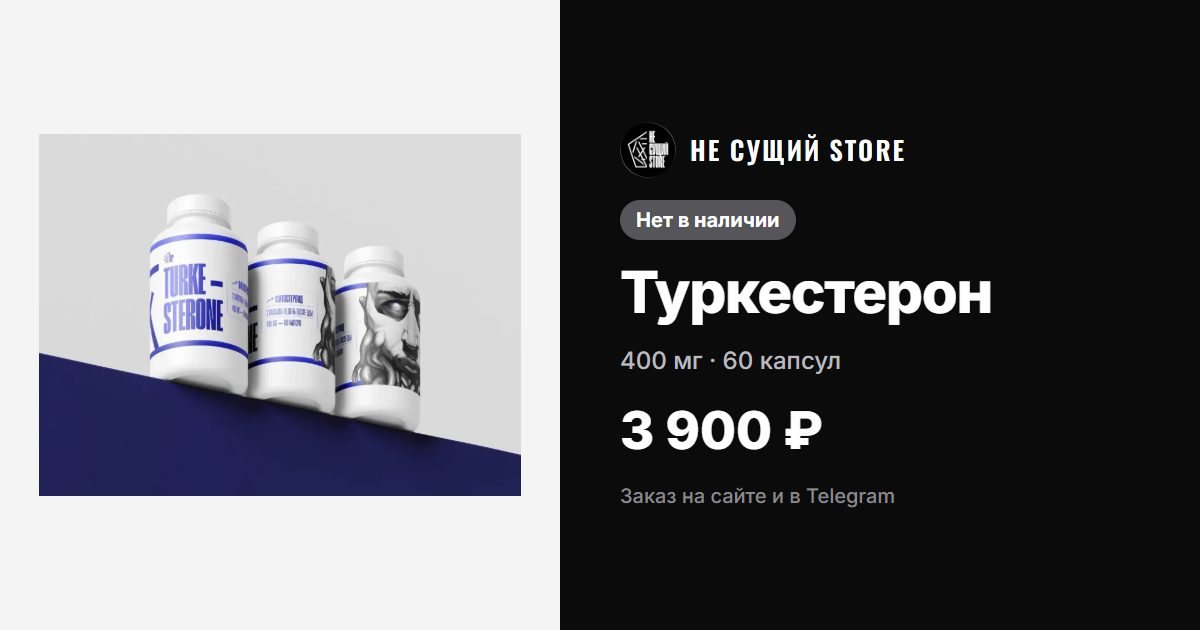
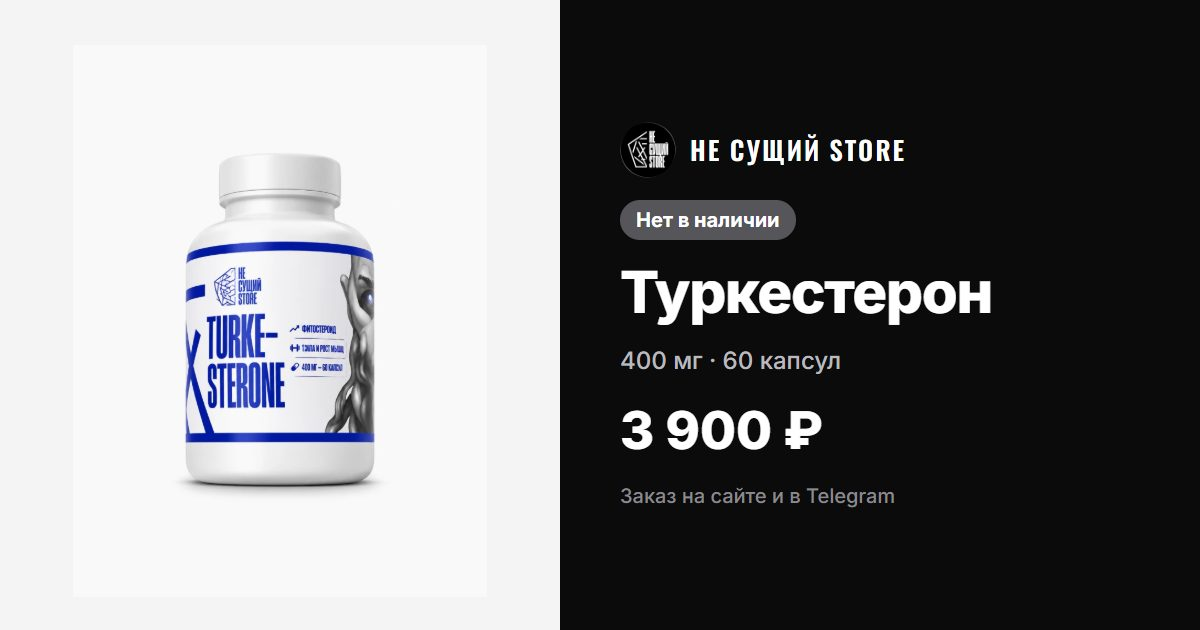
Сайт: f1fa7a7 Новые фото: Сульбутиамин, Ноопепт, Туркестерон

Changed region(s): [[0.0308, 0.2111, 0.4317, 0.8143]]

diff --git a/index.html b/index.html
@@ -34,14 +34,14 @@
   <!-- шрифты не блокируют первую отрисовку -->
   <link rel="preload" as="style" href="https://fonts.googleapis.com/css2?family=Inter:wght@400;500;600;700;800&family=Oswald:wght@500;600&display=swap" onload="this.onload=null;this.rel='stylesheet'">
   <noscript><link rel="stylesheet" href="https://fonts.googleapis.com/css2?family=Inter:wght@400;500;600;700;800&family=Oswald:wght@500;600&display=swap"></noscript>
-  <link rel="stylesheet" href="styles.css?v=7d974f5">
-  <link rel="stylesheet" href="mega.css?v=7d974f5">
-  <link rel="stylesheet" href="home.css?v=7d974f5">
-  <link rel="stylesheet" href="reviews.css?v=7d974f5">
-  <link rel="stylesheet" href="account.css?v=7d974f5">
-  <link rel="stylesheet" href="mobile.css?v=7d974f5">
-  <link rel="stylesheet" href="chat.css?v=7d974f5">
-  <link rel="stylesheet" href="theme.css?v=7d974f5">
+  <link rel="stylesheet" href="styles.css?v=f1fa7a7">
+  <link rel="stylesheet" href="mega.css?v=f1fa7a7">
+  <link rel="stylesheet" href="home.css?v=f1fa7a7">
+  <link rel="stylesheet" href="reviews.css?v=f1fa7a7">
+  <link rel="stylesheet" href="account.css?v=f1fa7a7">
+  <link rel="stylesheet" href="mobile.css?v=f1fa7a7">
+  <link rel="stylesheet" href="chat.css?v=f1fa7a7">
+  <link rel="stylesheet" href="theme.css?v=f1fa7a7">
 </head>
 <body>
   <!-- Иконки -->
@@ -435,14 +435,14 @@
 
   <div class="toast" id="toast" role="status"></div>
 
-  <script defer src="config.js?v=7d974f5"></script>
-  <script defer src="vendor/supabase.js?v=7d974f5"></script>
-  <script defer src="api.js?v=7d974f5"></script>
-  <script defer src="products.js?v=7d974f5"></script>
-  <script defer src="reviews.js?v=7d974f5"></script>
-  <script defer src="app.js?v=7d974f5"></script>
-  <script defer src="account.js?v=7d974f5"></script>
-  <script defer src="chat.js?v=7d974f5"></script>
-  <script defer src="theme.js?v=7d974f5"></script>
+  <script defer src="config.js?v=f1fa7a7"></script>
+  <script defer src="vendor/supabase.js?v=f1fa7a7"></script>
+  <script defer src="api.js?v=f1fa7a7"></script>
+  <script defer src="products.js?v=f1fa7a7"></script>
+  <script defer src="reviews.js?v=f1fa7a7"></script>
+  <script defer src="app.js?v=f1fa7a7"></script>
+  <script defer src="account.js?v=f1fa7a7"></script>
+  <script defer src="chat.js?v=f1fa7a7"></script>
+  <script defer src="theme.js?v=f1fa7a7"></script>
 </body>
 </html>

diff --git a/products.js b/products.js
@@ -868,9 +868,9 @@ const PRODUCTS = [
     "pack": "300 мг · 30 капсул",
     "price": 2900,
     "out": true,
-    "img": "p/sulbutiamine.webp?v=26b24ea0",
+    "img": "p/sulbutiamine.webp?v=6639ed70",
     "gallery": [
-      "p/sulbutiamine.webp?v=26b24ea0"
+      "p/sulbutiamine.webp?v=6639ed70"
     ],
     "tagline": "",
     "desc": "Сульбутиамин — это модифицированная форма тиамина (витамина В1), с улучшенной способностью проникать в мозг и выраженным ноотропным действием",
@@ -1805,9 +1805,10 @@ const PRODUCTS = [
     "pack": "10 мг · 30 капсул",
     "price": 2900,
     "out": true,
-    "img": "p/noopept.webp?v=53c40184",
+    "img": "p/noopept.webp?v=c1059545",
     "gallery": [
-      "p/noopept.webp?v=53c40184"
+      "p/noopept.webp?v=c1059545",
+      "p/noopept-1.webp?v=53c40184"
     ],
     "tagline": "",
     "desc": "Омберацетам - одно из самых современных и эффективных ноотропных соединений.",
@@ -2100,9 +2101,10 @@ const PRODUCTS = [
     "pack": "400 мг · 60 капсул",
     "price": 3900,
     "out": true,
-    "img": "p/turkesterone.webp?v=d2da9ba6",
+    "img": "p/turkesterone.webp?v=6028e0ab",
     "gallery": [
-      "p/turkesterone.webp?v=d2da9ba6"
+      "p/turkesterone.webp?v=6028e0ab",
+      "p/turkesterone-1.webp?v=d2da9ba6"
     ],
     "tagline": "",
     "desc": "Туркестерон - растительное вещество, которое является аналогом человеческого тестостерона. Улучшает спортивные результаты, силовые и выносливость организма, скорость набора мышечной массы.",
